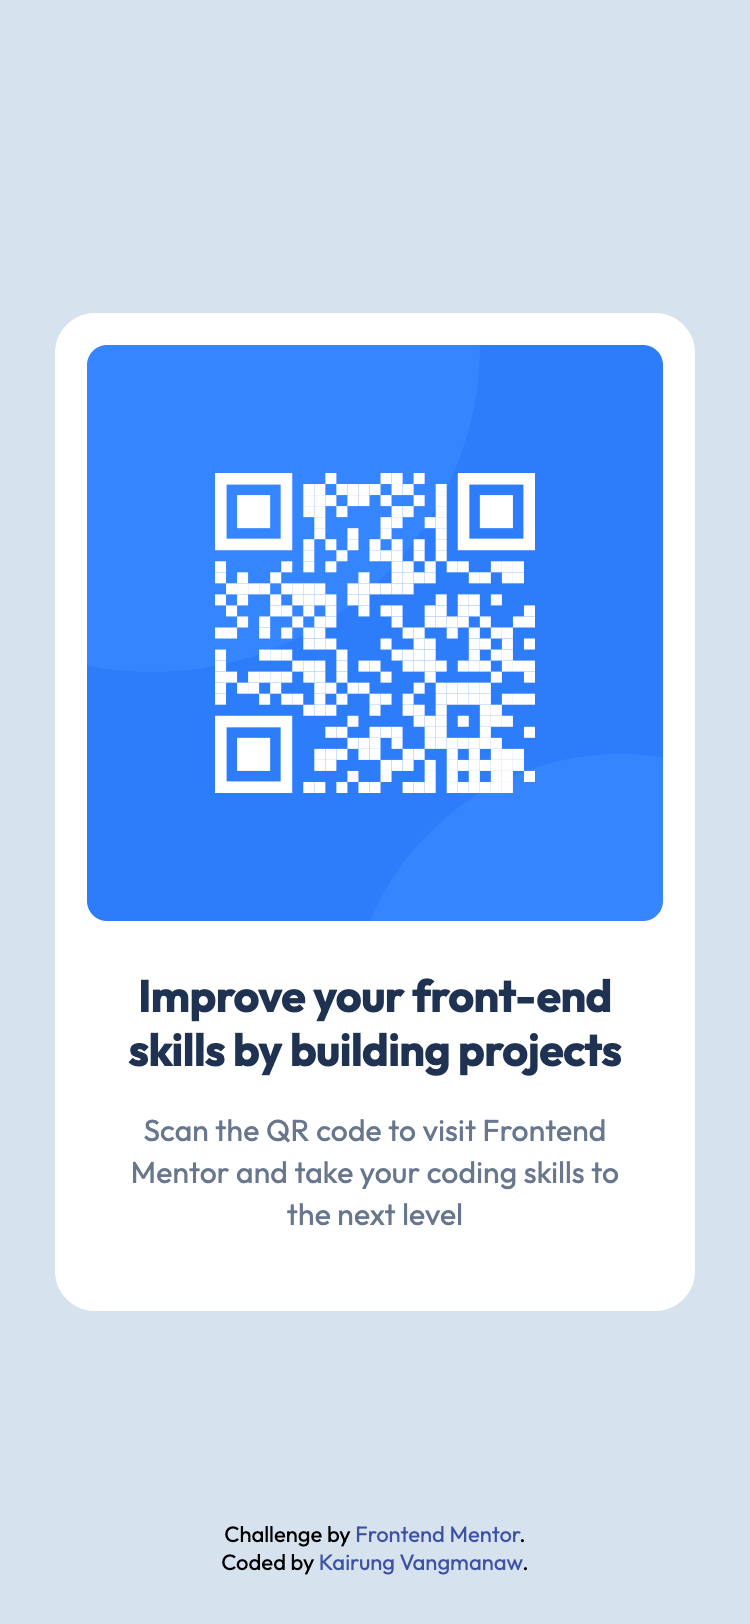
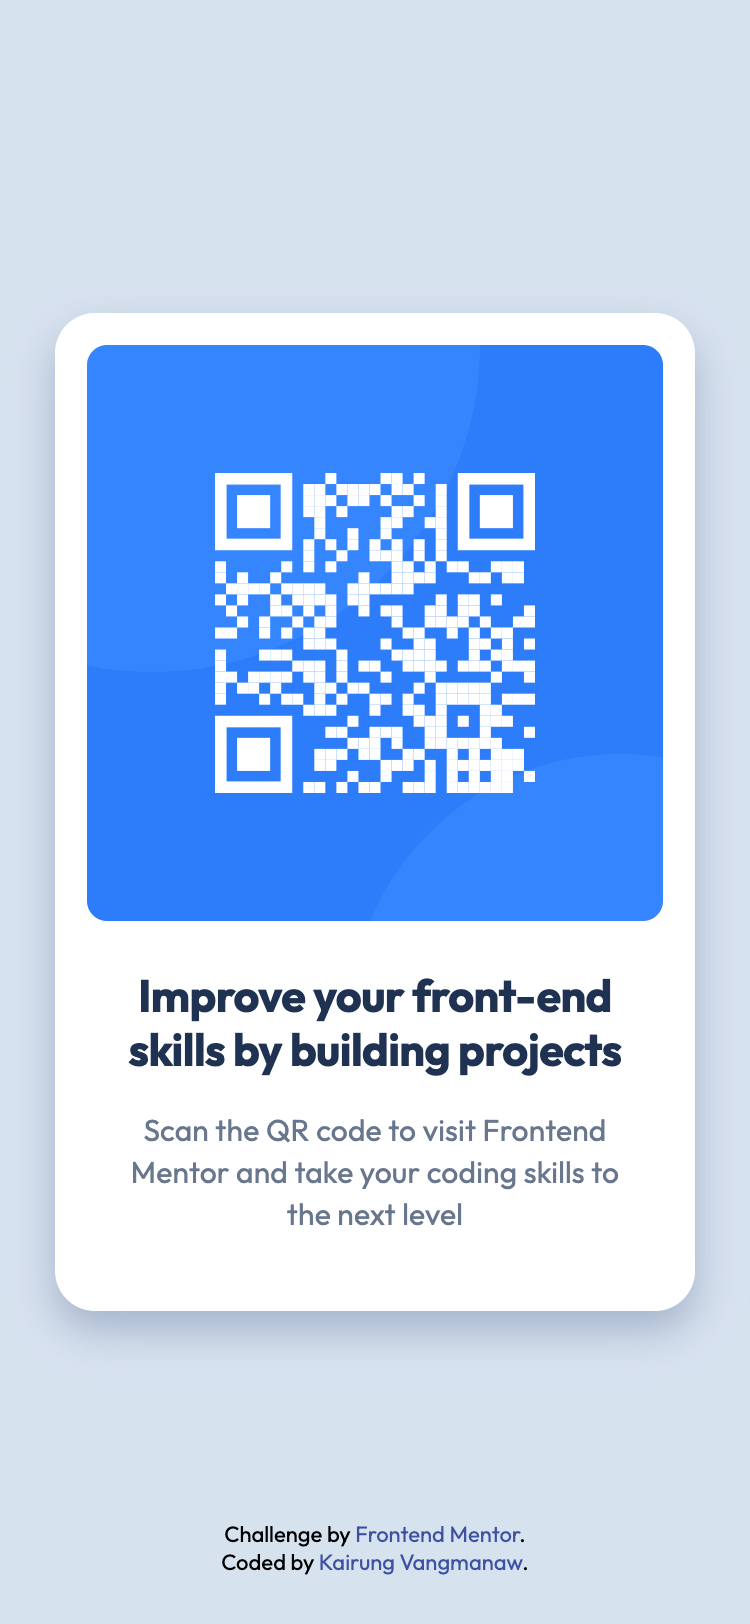
Complete README

Changed region(s): [[0.092, 0.8005, 0.92, 0.8313]]

diff --git a/README.md b/README.md
@@ -41,45 +41,15 @@ This is a solution to the [QR code component challenge on Frontend Mentor](https
 - Semantic HTML5 markup
 - CSS custom properties
 - Flexbox
-- CSS Grid
 - Mobile-first workflow
-- [React](https://reactjs.org/) - JS library
-- [Next.js](https://nextjs.org/) - React framework
-- [Styled Components](https://styled-components.com/) - For styles
-
-**Note: These are just examples. Delete this note and replace the list above with your own choices**
 
 ### What I learned
 
-Use this section to recap over some of your major learnings while working through this project. Writing these out and providing code samples of areas you want to highlight is a great way to reinforce your own knowledge.
-
-To see how you can add code snippets, see below:
-
-```html
-<h1>Some HTML code I'm proud of</h1>
-```
-
-```css
-.proud-of-this-css {
-  color: papayawhip;
-}
-```
-
-```js
-const proudOfThisFunc = () => {
-  console.log("🎉");
-};
-```
-
-If you want more help with writing markdown, we'd recommend checking out [The Markdown Guide](https://www.markdownguide.org/) to learn more.
-
-**Note: Delete this note and the content within this section and replace with your own learnings.**
+I learned how to use the `drop-shadow` function of the CSS `filter` property. I discovered that it is quite similar to the `box-shadow` property.
 
 ### Continued development
 
-Use this section to outline areas that you want to continue focusing on in future projects. These could be concepts you're still not completely comfortable with or techniques you found useful that you want to refine and perfect.
-
-**Note: Delete this note and the content within this section and replace with your own plans for continued development.**
+I will continue to study the use of the `filter` property because I believe it can reduce my workload and make things more convenient.
 
 ### Useful resources
 
